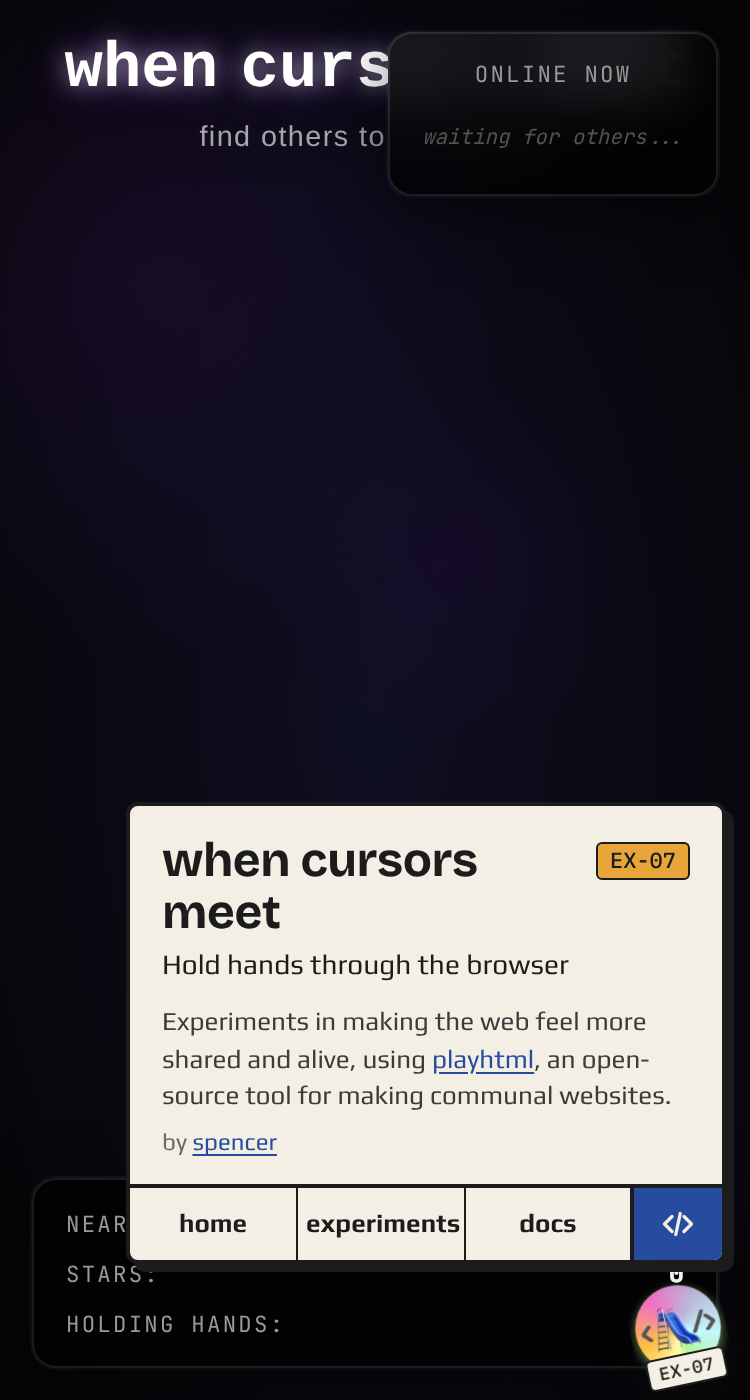
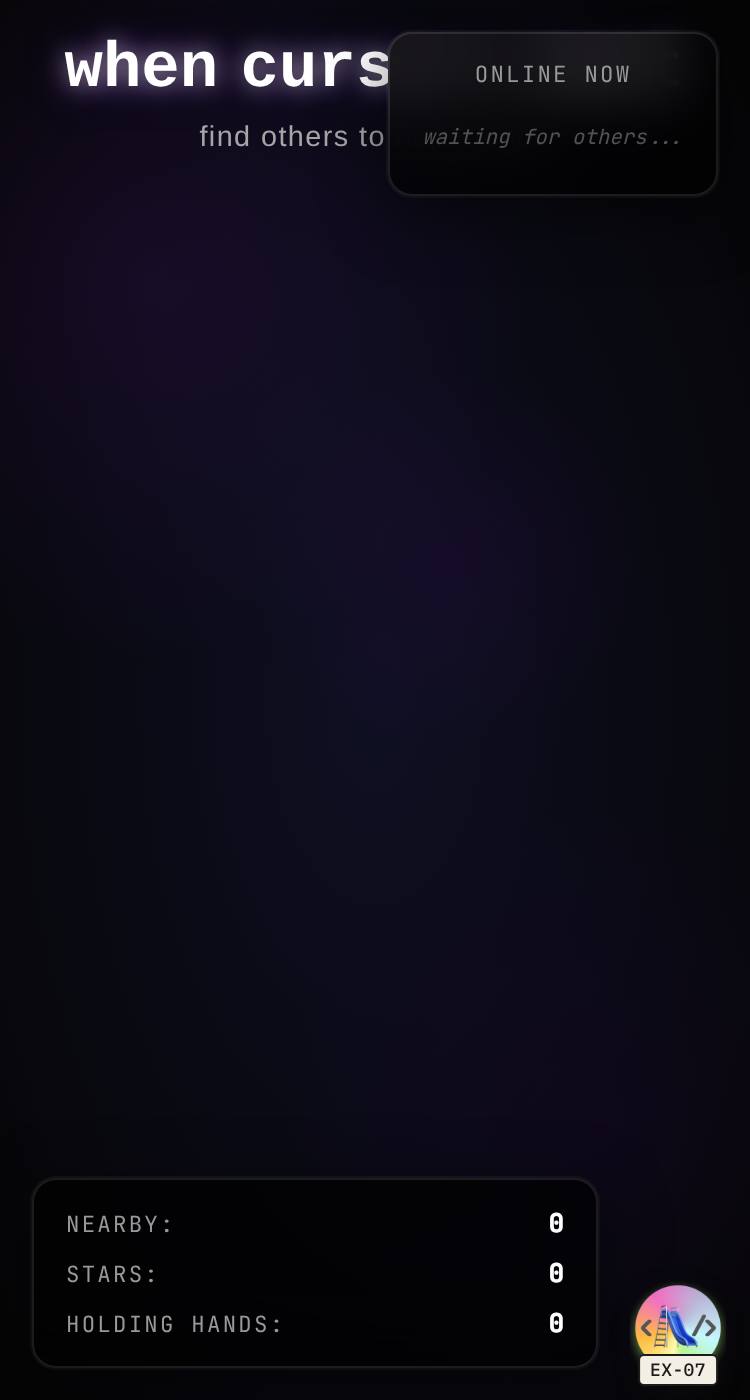
website: keep EX-07's phone stats panel clear of the badge
At phone widths the stats panel spans the bottom edge, so the badge in
the bottom-right corner covered its values. Stop the panel 60px short of
the right edge (the badge's 48px plus its 12px inset).

Claude-Session: https://claude.ai/code/session_01Y89sJQpXsP4K4MocXtxtYZ

Changed region(s): [[0.1533, 0.5529, 0.9813, 1.0]]

diff --git a/website/experiments/7/7.scss b/website/experiments/7/7.scss
@@ -394,7 +394,8 @@ body {
   .info-panel {
     bottom: 1rem;
     left: 1rem;
-    right: 1rem;
+    // Leave the bottom-right corner to the experiment badge (48px + 12px inset).
+    right: calc(1rem + 60px);
     padding: 0.8rem 1rem;
 
     .stat {
